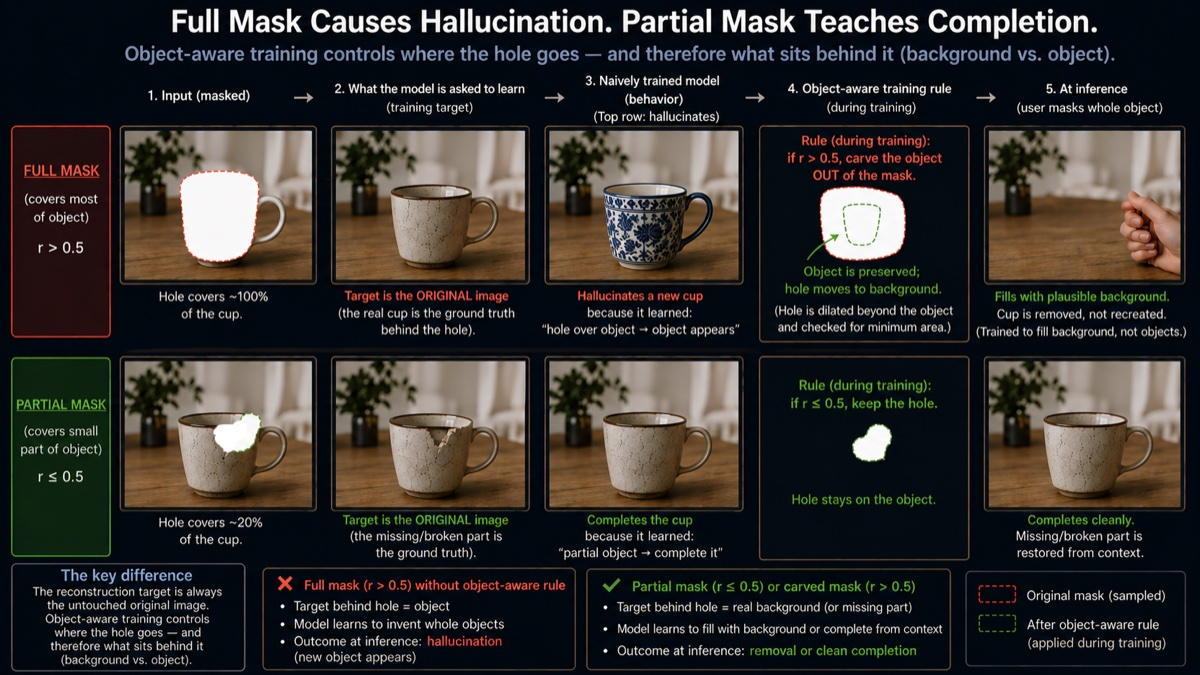
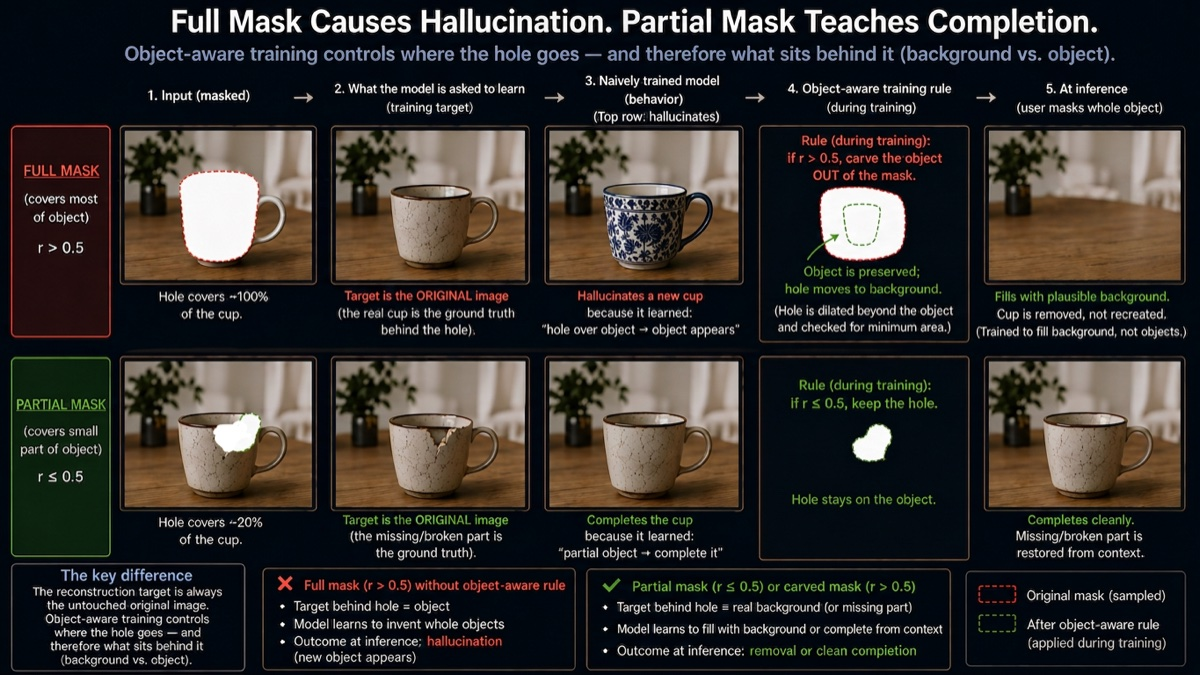
Replace inpainting post image with new compressed version

diff --git a/content/posts/object-aware-inpainting.html b/content/posts/object-aware-inpainting.html
@@ -191,7 +191,7 @@
   <p>This post is that whole chain of reasoning, written out slowly, because the payoff is a clean way to think about when a generative inpainter <em>fills with background</em> versus when it <em>invents a new object</em>. If you work on anything downstream of inpainting (object removal, distractor cleanup, blemish retouching), this distinction is the difference between a tool and a hallucinator.</p>
 
   <figure class="figure">
-    <img src="/images/posts/object-aware-inpainting.png" alt="Two-row diagram contrasting a full mask over a cup (r > 0.5), which a naive model fills by hallucinating a new cup, with a partial mask (r ≤ 0.5), which the model completes. It shows the object-aware rule: carve the object out of the mask when r > 0.5 so the target behind the hole is background, and keep the hole when r ≤ 0.5 so the target is the missing part. The result at inference is removal in the first case and clean completion in the second." loading="lazy" />
+    <img src="/images/posts/object-aware-inpainting.jpg" alt="Two-row diagram contrasting a full mask over a cup (r > 0.5), which a naive model fills by hallucinating a new cup, with a partial mask (r ≤ 0.5), which the model completes. It shows the object-aware rule: carve the object out of the mask when r > 0.5 so the target behind the hole is background, and keep the hole when r ≤ 0.5 so the target is the missing part. The result at inference is removal in the first case and clean completion in the second." loading="lazy" />
     <figcaption>The whole argument on one page. A full mask (top, r&nbsp;&gt;&nbsp;0.5) makes a naive model hallucinate a new cup, because the target behind the hole <em>is</em> the cup. Object-aware training carves the object out of the mask during training, so the target becomes real background and the model learns to remove. A partial mask (bottom, r&nbsp;&le;&nbsp;0.5) is kept, so the model learns to complete. The target is always the untouched original; the rule only controls where the hole goes, and therefore what sits behind it.</figcaption>
   </figure>
 
